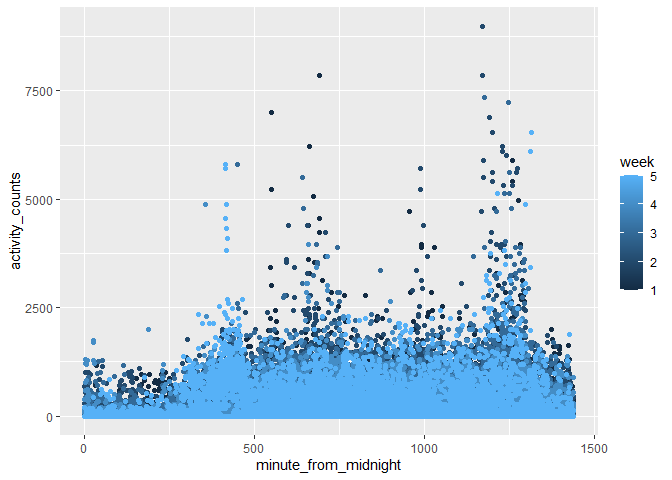
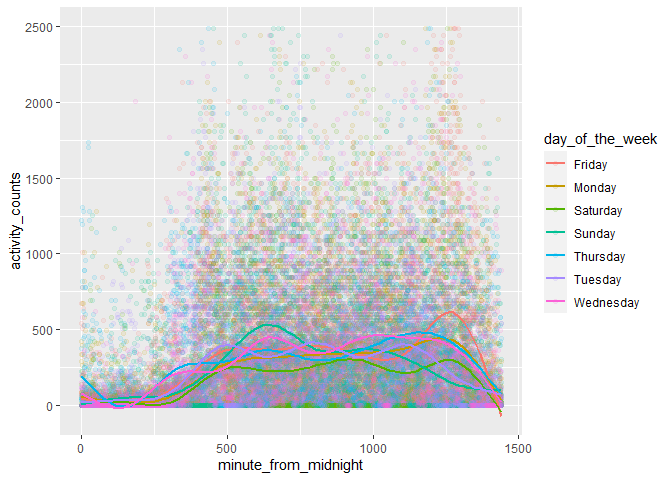
tidy the data and answer about the snow

diff --git a/hw3.md b/hw3.md
@@ -269,8 +269,93 @@ midnight.*
 
 ``` r
 acc_data %>% 
-  ggplot(aes(x = minute_from_midnight,y = activity_counts, color = week)) + 
-  geom_point()
+  ggplot(aes(x = minute_from_midnight,y = activity_counts, color = day_of_the_week)) +
+  geom_point(alpha = .1) +
+  geom_smooth(se = FALSE) +
+  ylim(NA,2500)
 ```
 
-![](hw3_files/figure-gfm/unnamed-chunk-9-1.png)<!-- -->
+    ## `geom_smooth()` using method = 'gam' and formula 'y ~ s(x, bs = "cs")'
+
+    ## Warning: Removed 202 rows containing non-finite values (stat_smooth).
+
+    ## Warning: Removed 202 rows containing missing values (geom_point).
+
+![](hw3_files/figure-gfm/unnamed-chunk-9-1.png)<!-- --> *The activity
+counts are low and steady in the first place, then it starts to rise at
+minute 250, achieve a climax around minute 600, decreases, rises again,
+achieves another climax around 1100, especially in Friday and Sunday.*
+
+# problem 3
+
+``` r
+data("ny_noaa")
+str(ny_noaa)
+```
+
+    ## tibble [2,595,176 × 7] (S3: tbl_df/tbl/data.frame)
+    ##  $ id  : chr [1:2595176] "US1NYAB0001" "US1NYAB0001" "US1NYAB0001" "US1NYAB0001" ...
+    ##  $ date: Date[1:2595176], format: "2007-11-01" "2007-11-02" ...
+    ##  $ prcp: int [1:2595176] NA NA NA NA NA NA NA NA NA NA ...
+    ##  $ snow: int [1:2595176] NA NA NA NA NA NA NA NA NA NA ...
+    ##  $ snwd: int [1:2595176] NA NA NA NA NA NA NA NA NA NA ...
+    ##  $ tmax: chr [1:2595176] NA NA NA NA ...
+    ##  $ tmin: chr [1:2595176] NA NA NA NA ...
+    ##  - attr(*, "spec")=
+    ##   .. cols(
+    ##   ..   id = col_character(),
+    ##   ..   date = col_date(format = ""),
+    ##   ..   prcp = col_integer(),
+    ##   ..   snow = col_integer(),
+    ##   ..   snwd = col_integer(),
+    ##   ..   tmax = col_character(),
+    ##   ..   tmin = col_character()
+    ##   .. )
+
+``` r
+ny_noaa %>% drop_na()
+```
+
+    ## # A tibble: 1,222,433 × 7
+    ##    id          date        prcp  snow  snwd tmax  tmin 
+    ##    <chr>       <date>     <int> <int> <int> <chr> <chr>
+    ##  1 USC00300023 1981-01-03     0     0     0 -122  -206 
+    ##  2 USC00300023 1981-01-05     0     0     0 -56   -178 
+    ##  3 USC00300023 1981-01-12     0     0     0 -122  -306 
+    ##  4 USC00300023 1981-01-13     0     0     0 -67   -289 
+    ##  5 USC00300023 1981-01-15     0     0     0 -50   -106 
+    ##  6 USC00300023 1981-01-17     0     0     0 -11   -150 
+    ##  7 USC00300023 1981-01-20     0     0     0 61    -67  
+    ##  8 USC00300023 1981-01-21     0     0     0 17    -106 
+    ##  9 USC00300023 1981-01-22     0     0     0 6     -50  
+    ## 10 USC00300023 1981-01-23   117   127    76 22    -44  
+    ## # … with 1,222,423 more rows
+
+*There are 7 variables and 2595176 observations in this data, only
+1222433 observations contain no missing values. The dataset identify
+each observation with id and date, and then describes prcp,snow,snwd and
+temperature min&max in each observation.*
+
+## tidy the data
+
+``` r
+tidy_ny = ny_noaa %>% 
+  separate(col = date, into = c("year","month","day")) %>% 
+  mutate(tmax = as.numeric(tmax)/10, tmin = as.numeric(tmin)/10, prcp = prcp/10)
+
+str(tidy_ny)
+```
+
+    ## tibble [2,595,176 × 9] (S3: tbl_df/tbl/data.frame)
+    ##  $ id   : chr [1:2595176] "US1NYAB0001" "US1NYAB0001" "US1NYAB0001" "US1NYAB0001" ...
+    ##  $ year : chr [1:2595176] "2007" "2007" "2007" "2007" ...
+    ##  $ month: chr [1:2595176] "11" "11" "11" "11" ...
+    ##  $ day  : chr [1:2595176] "01" "02" "03" "04" ...
+    ##  $ prcp : num [1:2595176] NA NA NA NA NA NA NA NA NA NA ...
+    ##  $ snow : int [1:2595176] NA NA NA NA NA NA NA NA NA NA ...
+    ##  $ snwd : int [1:2595176] NA NA NA NA NA NA NA NA NA NA ...
+    ##  $ tmax : num [1:2595176] NA NA NA NA NA NA NA NA NA NA ...
+    ##  $ tmin : num [1:2595176] NA NA NA NA NA NA NA NA NA NA ...
+
+*the most commonly observed values for snowfall is 0, as normally, there
+is no snow.*
